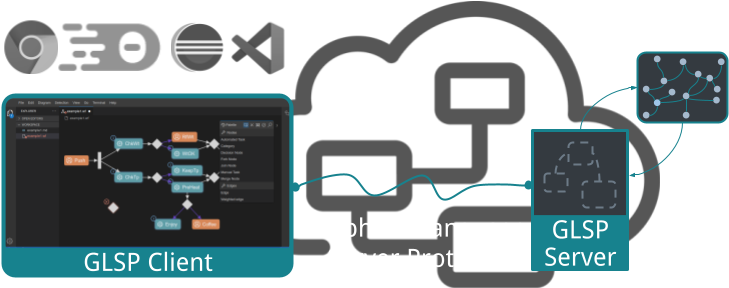
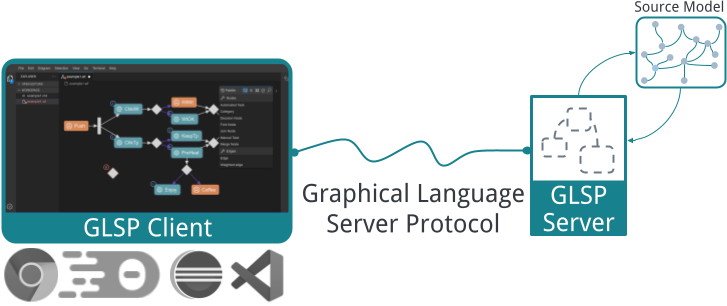
Reduce gif size and switch to light

diff --git a/content/_index/overview/index.md b/content/_index/overview/index.md
@@ -1,17 +1,18 @@
 +++
 fragment = "content"
 weight = 150    
-background = "dark"
+background = "light"
 
-title = "Eclipse Graphical Language Server Platform (GLSP)"
+title = "Modern diagram editors for Eclipse Theia, VS Code, Web pages and more"
 #subtitle= "Column based items with icons"
 #title_align = "center" # Default is center, can be left, right or center
 +++
 
 ---
-<img align="right" src="images/glspoverview.png" alt="GLSP Overview" style="padding: 0px 5px 0px 20px;">
-<p style="padding-top: 20px; text-align: justify">
+<img align="right" src="images/glspoverview.png" alt="GLSP Overview" style="padding: 5px 5px 0px 25px;">
+<p style="padding-top: 0px; text-align: justify">
 The Graphical Language Server Platform (GLSP) is an extensible open-source framework for building custom diagram editors based on web technologies.
-Alongside an extensible client and server framework (node or Java), GLSP provides a language server protocol (LSP) for diagrams.
+Alongside an extensible client framework and a server framework, GLSP provides a language server protocol (LSP) for diagrams.
 With that, GLSP enables the development of modern, web-based diagram editors, whereas the heavy lifting, such as loading, interpreting, and editing according to the rules of the modeling language, is encapsulated in the server.
+GLSP provides integration layers, to use GLSP editors seamlessly in web pages, Eclipse Theia, VSCode and even Eclipse desktop.
 </p>

diff --git a/content/_index/hero.md b/content/_index/hero.md
@@ -7,7 +7,7 @@ background = "dark" # can influence the text color
 particles = true
 
 title = "Graphical Language Server Platform (GLSP)"
-subtitle = "Modern diagram editors for Theia, VS Code, Web and more"
+subtitle = "Eclipse Graphical Language Server Platform (GLSP)"
 
 [header]
 

diff --git a/content/_index/integrations/index.md b/content/_index/integrations/index.md
@@ -1,7 +1,7 @@
 +++
 fragment = "items"
 weight = 300
-background = "dark"
+background = "light"
 
 title = "Diagram Editor Integrations"
 #subtitle= "Column based items with icons"

diff --git a/content/_index/components/index.md b/content/_index/components/index.md
@@ -1,7 +1,7 @@
 +++
 fragment = "items"
 weight = 250
-background = "dark"
+background = "light"
 
 title = "Components"
 #subtitle= "Column based items with icons"

diff --git a/content/_index/features/diagrameditors.md b/content/_index/features/diagrameditors.md
@@ -4,7 +4,6 @@ weight = 10
 
 [asset]
   icon = "fas fa-project-diagram	"
-  url = "#"
 +++
 
 <p style="margin-left: 5px; margin-right: 5px; text-align: justify">

diff --git a/content/_index/features/index.md b/content/_index/features/index.md
@@ -1,7 +1,7 @@
 +++
 fragment = "items"
 weight = 200
-background = "dark"
+background = "light"
 
 title = "Features"
 #subtitle= "Column based items with icons"

diff --git a/content/_index/features/flexibleextensible.md b/content/_index/features/flexibleextensible.md
@@ -4,7 +4,6 @@ weight = 20
 
 [asset]
   icon = "fas fa-cogs"
-  url = "#"
 +++
 
 <p style="margin-left: 5px; margin-right: 5px; text-align: justify">
